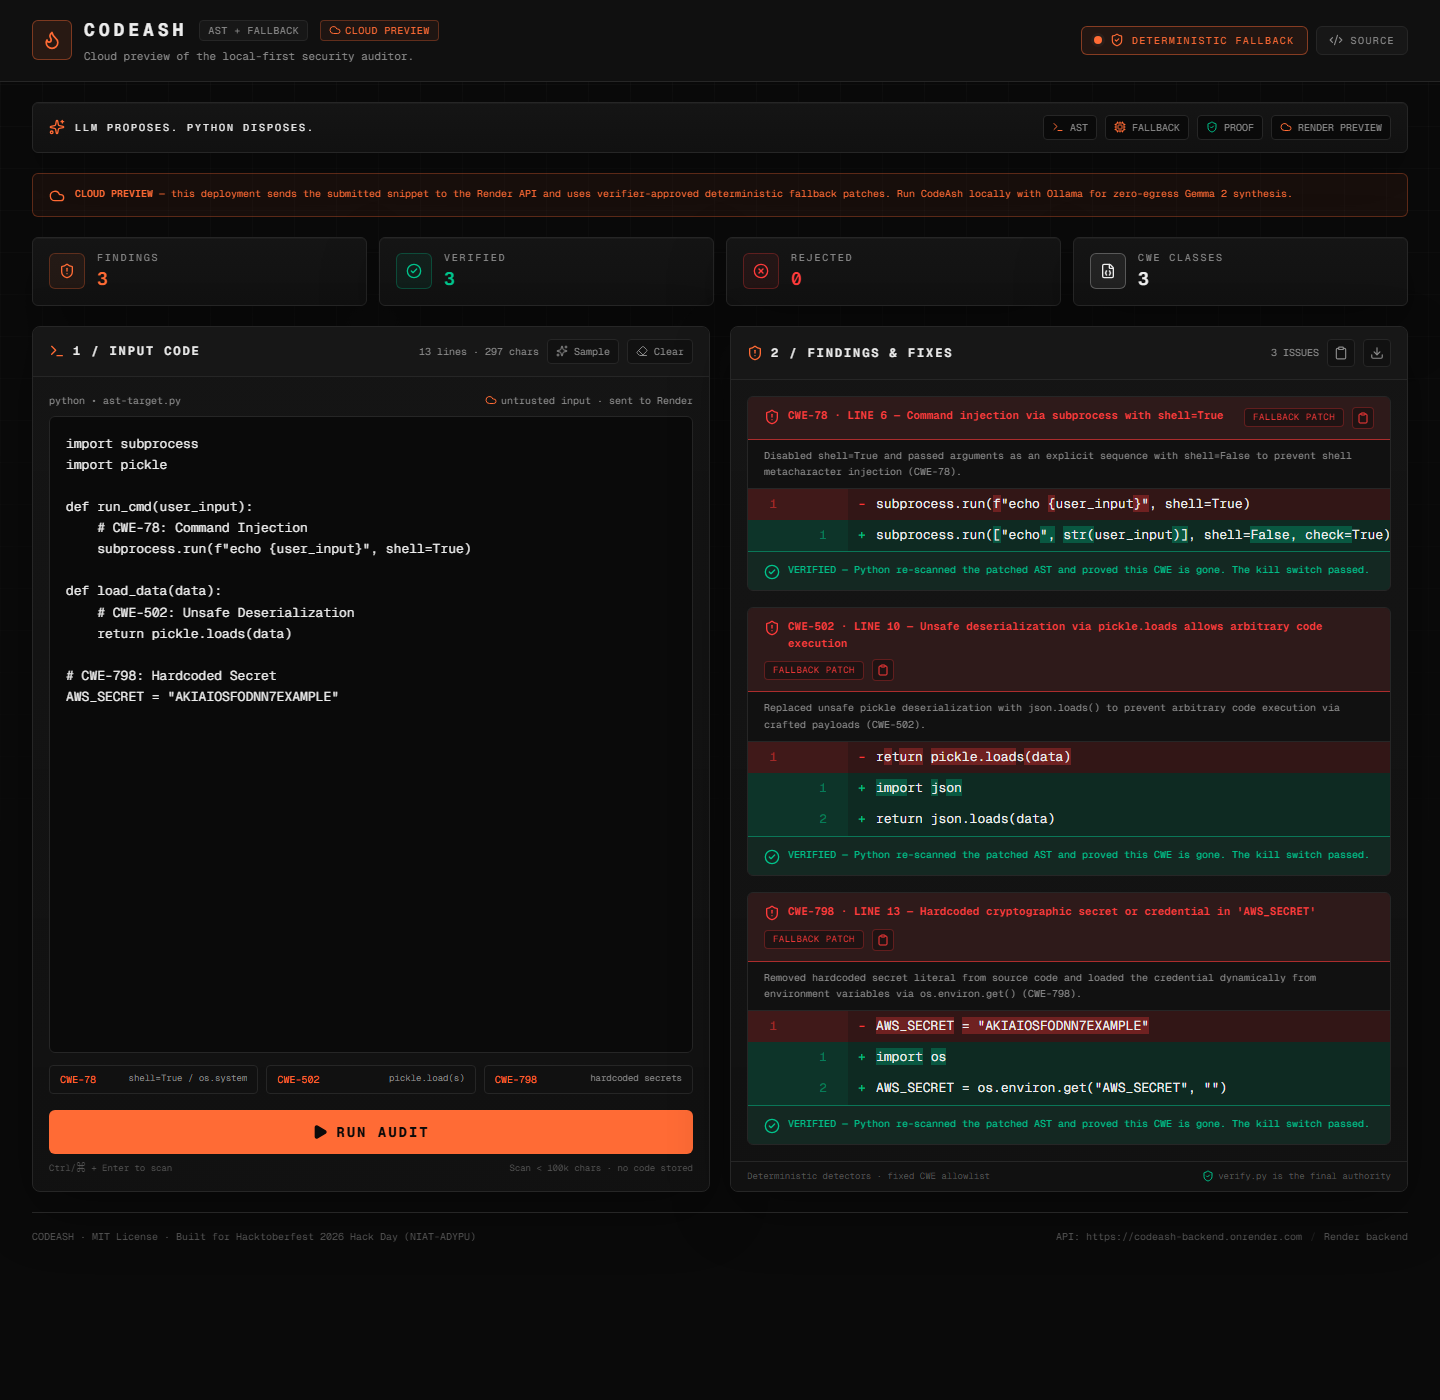
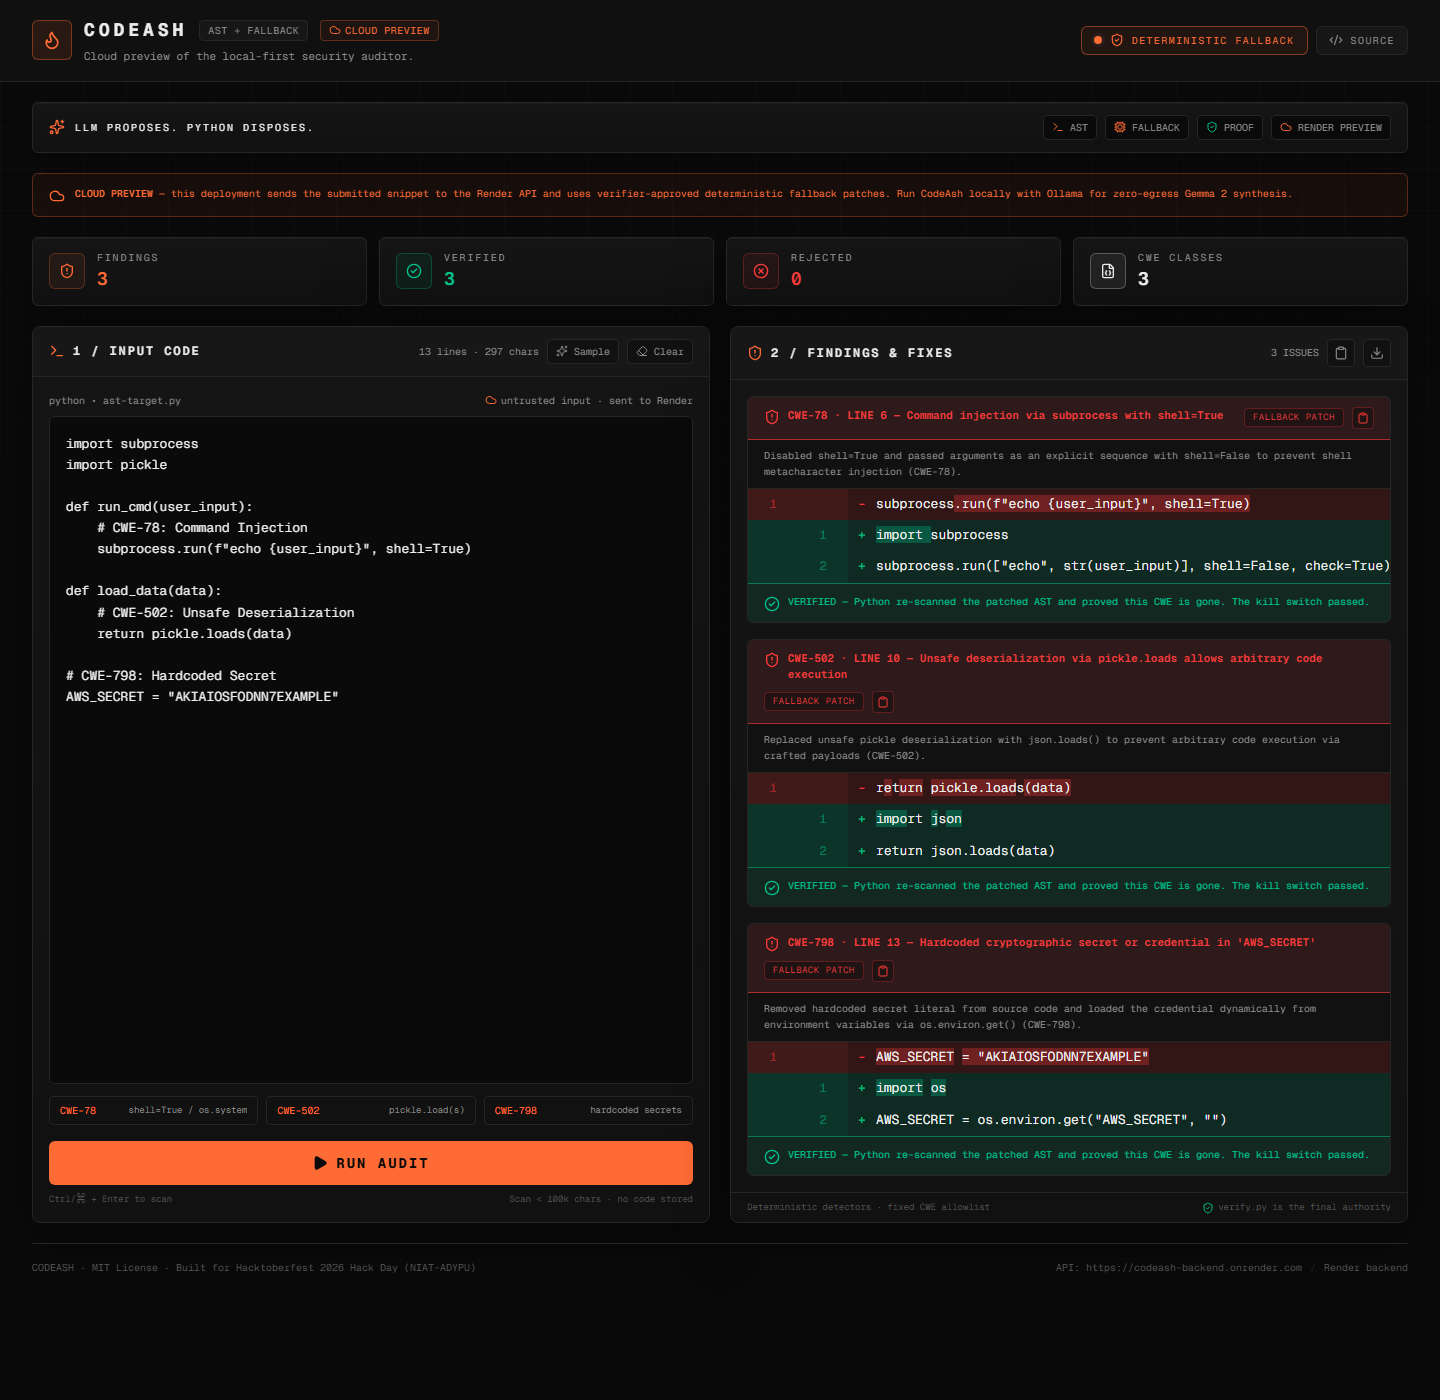
docs: refresh live evidence after backend import fix
Re-capture the deployed audit after Render completed the latest commit. The CWE-78 fallback patch now includes import subprocess, the audit completes in 1.0s, and all three patches remain VERIFIED with only the Vercel and Render hosts contacted.

diff --git a/README.md b/README.md
@@ -156,7 +156,7 @@ available. The fallback keeps the audit pipeline useful and honest:
 | API | FastAPI 0.115.6, Uvicorn 0.34.0, Pydantic 2.10.4 |
 | Local model | Ollama 0.4.5 SDK, Gemma 2 9B (`gemma2:9b`) |
 | Static analysis | Python 3.12 `ast`, `re`, `textwrap` |
-| Verification | `unittest` (17 backend tests), Next.js production build, live browser run |
+| Verification | `unittest` (17 backend tests), production build, local + deployed browser runs |
 | Deployment | Live on Vercel + Render; blueprint (`render.yaml`), `vercel.json` |
 
 ---
@@ -345,7 +345,7 @@ Render API using the same headless-Chrome procedure:
 | App URL | <https://codeash.vercel.app> |
 | API | <https://codeash-backend.onrender.com> |
 | Hosting mode | Vercel production + Render free web service |
-| Audit wall-clock time | **2.0 s** (network round trip, fallback engine) |
+| Audit wall-clock time | **1.0 s** (network round trip, fallback engine) |
 | Findings | **3** |
 | Verified by `verify.py` | **3 / 3** |
 | Rejected | **0** |

diff --git a/SUBMISSION.md b/SUBMISSION.md
@@ -105,7 +105,7 @@ and must pass the exact same verification gates.
   console/page errors, 0 external requests
 - Deployed browser run:
   [`live-browser-run.json`](docs/screenshots/live-browser-run.json) — Vercel +
-  Render, **2.0 s**, **3/3 verified**, 0 rejected, fallback providers, only the
+  Render, **1.0 s**, **3/3 verified**, 0 rejected, fallback providers, only the
   Vercel app host and Render API host contacted, 0 unexpected requests, 0
   console/page errors
 - Backend tests: `cd backend && .\venv\Scripts\python.exe -m unittest discover -v`

diff --git a/docs/screenshots/README.md b/docs/screenshots/README.md
@@ -47,7 +47,7 @@ class:
 
 | Item | Value |
 | --- | --- |
-| Date (UTC) | 2026-10-26T07:29:09Z |
+| Date (UTC) | 2026-10-26T07:37:36Z |
 | App URL | `https://codeash.vercel.app` |
 | API | `https://codeash-backend.onrender.com` |
 | Deployment | Vercel production + Render free web service |
@@ -59,7 +59,7 @@ class:
 
 | Metric | Value |
 | --- | --- |
-| Audit completed in | **2.0 seconds** |
+| Audit completed in | **1.0 seconds** |
 | Findings | **3** |
 | VERIFIED | **3** |
 | REJECTED | **0** |
